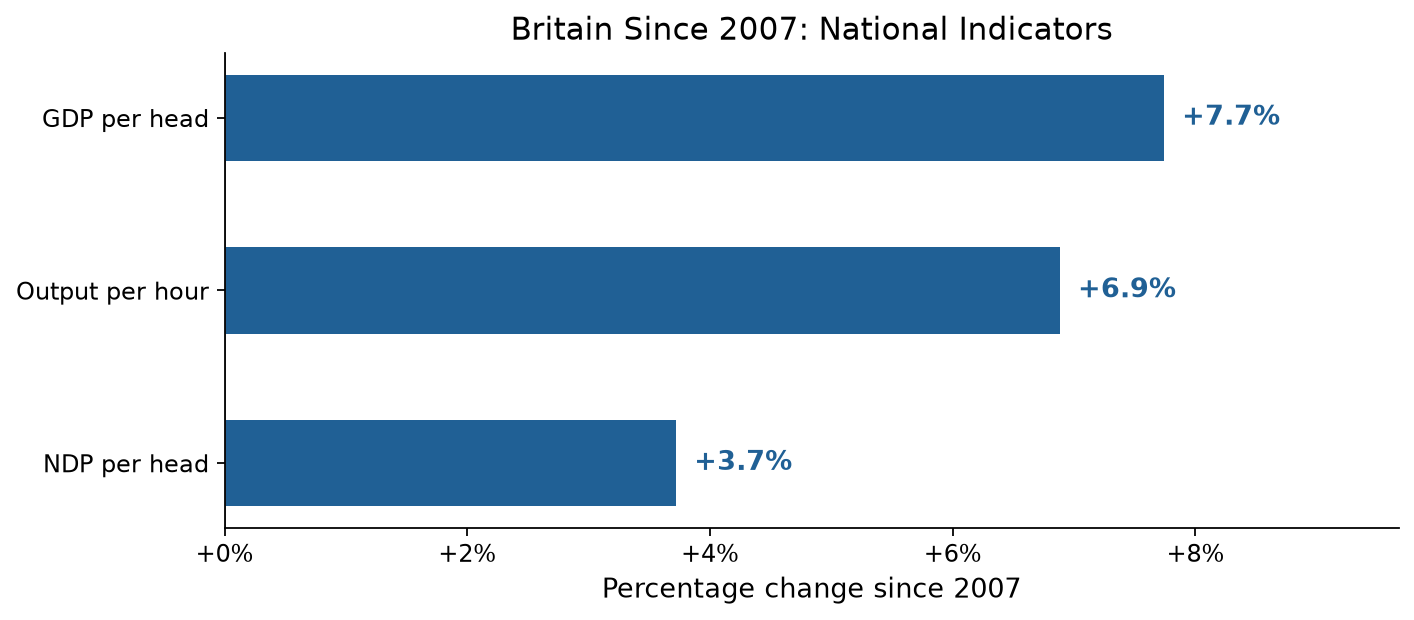
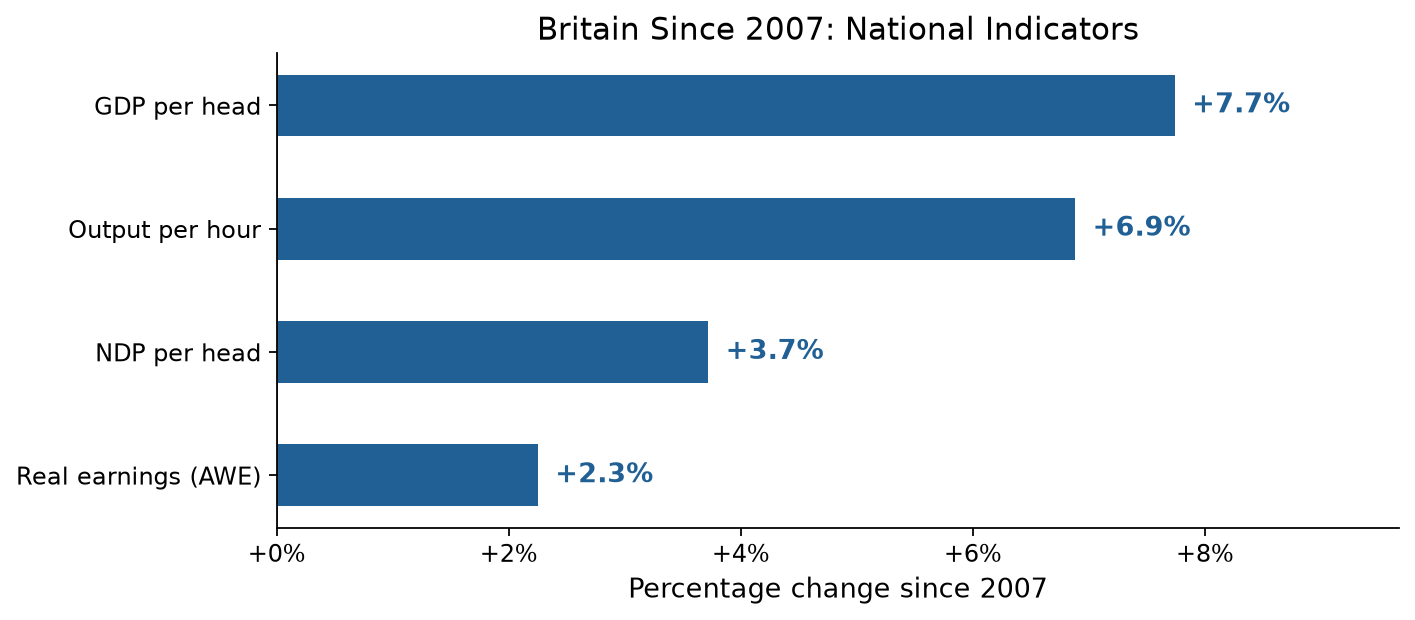
Add real earnings indicator (Workstream 4)
- New indicator: Real average weekly earnings (CPI-deflated)
  Computed from nominal AWE (KAB9) deflated by CPI (D7BT).
  2007: £711/wk → 2025: £727/wk (+2.3%).
  Barely moved while GDP per head rose 7.7%.

- fetch_ons.py: added fetch_awe_nominal() and fetch_cpi()
- process_indicators.py: added process_real_earnings(),
  fixed _latest_annual() to handle monthly period labels
  (regex ^\d{4}$ instead of ~Q check)
- build_outputs.py: 4th bar in national indicators chart,
  C006 now rated Strong with data-driven finding
- QA checks: 4 national indicators, 6/7 claims rated (72 checks)
- Updated full-report.md: new Section 4 on real earnings,
  updated executive summary and methodology table
- Updated findings-summary.md, README.md, indicator register

Future plan: item 7 marked complete.

diff --git a/src/process_indicators.py b/src/process_indicators.py
@@ -56,10 +56,11 @@ def _read_ons_generator_csv(path: Path) -> pd.DataFrame:
 def _latest_annual(df: pd.DataFrame, after: int = 2006) -> tuple[str, float]:
     """Return (year, value) for the latest annual observation after *after*.
 
-    Annual rows are those without 'Q' in the period label.
+    Annual rows are those whose period label is a plain 4-digit year
+    (no 'Q', no month abbreviation, no space).
     """
-    annual = df[~df["period"].str.contains("Q", na=False)]
-    annual = annual[annual["value"].notna()]
+    is_annual = df["period"].str.match(r"^\d{4}$", na=False)
+    annual = df[is_annual & df["value"].notna()].copy()
     annual = annual[annual["period"].astype(int) > after]
     if annual.empty:
         raise ValueError("No annual observations found")
@@ -157,12 +158,43 @@ def process_labour_productivity() -> dict:
     }
 
 
+def process_real_earnings() -> dict:
+    """Compute real Average Weekly Earnings (CPI-deflated) for 2007 vs 2025.
+
+    Uses nominal AWE (KAB9) deflated by CPI all-items index (D7BT).
+    Both series are expressed in 2025 prices for comparability.
+    """
+    # Nominal AWE
+    awe = _read_ons_generator_csv(RAW_DIR / "kab9_awe.csv")
+    awe_nominal_2007 = _annual_value(awe, 2007)
+    awe_latest_year, awe_nominal_latest = _latest_annual(awe)
+
+    # CPI index
+    cpi = _read_ons_generator_csv(RAW_DIR / "d7bt_cpi.csv")
+    cpi_2007 = _annual_value(cpi, 2007)
+    _, cpi_latest = _latest_annual(cpi)
+
+    # Deflate to latest-year prices
+    real_2007 = awe_nominal_2007 * (cpi_latest / cpi_2007)
+    real_latest = awe_nominal_latest  # already in latest-year prices
+
+    return {
+        "indicator_id": "real_earnings",
+        "geography": "UK",
+        "baseline_year": 2007,
+        "baseline_value": round(real_2007, 0),
+        "latest_year": int(awe_latest_year),
+        "latest_value": round(real_latest, 0),
+    }
+
+
 def build_national_table() -> pd.DataFrame:
     """Build the populated national comparison table."""
     rows = [
         process_gdp_per_head(),
         process_ndp_per_head(),
         process_labour_productivity(),
+        process_real_earnings(),
     ]
     df = pd.DataFrame(rows)
     # Add remaining columns with empty placeholders
@@ -174,6 +206,7 @@ def build_national_table() -> pd.DataFrame:
         "CVM 2023 prices, seasonally adjusted. 2025 is latest full year.",
         "CVM 2023 prices, seasonally adjusted. NDP = GDP minus capital consumption.",
         "Index 2023=100, seasonally adjusted, whole economy. Quarterly data available.",
+        "Nominal AWE (KAB9) deflated by CPI (D7BT) to 2025 prices. Whole economy, total pay, seasonally adjusted. Monthly data available.",
     ]
     return df[PROCESSED_COLS]
 
@@ -280,7 +313,7 @@ def write_processed() -> tuple[pd.DataFrame, pd.DataFrame]:
 def main() -> None:
     national, regional = write_processed()
 
-    print("National comparison table (3 indicators):")
+    print("National comparison table (4 indicators):")
     print(national[["indicator_id", "baseline_value", "latest_value"]].to_string(index=False))
 
     print(f"\nRegional productivity table ({len(regional)} regions):")

diff --git a/src/fetch_ons.py b/src/fetch_ons.py
@@ -196,6 +196,29 @@ def fetch_regional_productivity(*, force: bool = False) -> FetchResult:
     )
 
 
+def fetch_awe_nominal(*, force: bool = False) -> FetchResult:
+    """Download nominal Average Weekly Earnings (KAB9) from ONS.
+
+    Used as the base for computing real earnings (CPI-deflated).
+    """
+    return _fetch(
+        indicator_id="real_earnings",
+        url=f"{ONS_GENERATOR_BASE}?uri=/employmentandlabourmarket/peopleinwork/earningsandworkinghours/timeseries/kab9/lms&format=csv",
+        filename="kab9_awe.csv",
+        force=force,
+    )
+
+
+def fetch_cpi(*, force: bool = False) -> FetchResult:
+    """Download CPI all-items index (D7BT) for deflating nominal earnings."""
+    return _fetch(
+        indicator_id="real_earnings",
+        url=f"{ONS_GENERATOR_BASE}?uri=/economy/inflationandpriceindices/timeseries/d7bt/mm23&format=csv",
+        filename="d7bt_cpi.csv",
+        force=force,
+    )
+
+
 # ---------------------------------------------------------------------------
 # Bulk fetch
 # ---------------------------------------------------------------------------
@@ -213,6 +236,8 @@ def fetch_all(*, force: bool = False) -> FetchReport:
         fetch_ndp_per_head,
         fetch_labour_productivity,
         fetch_regional_productivity,
+        fetch_awe_nominal,
+        fetch_cpi,
     ]
 
     for fn in fetchers:

diff --git a/src/qa_checks.py b/src/qa_checks.py
@@ -88,8 +88,8 @@ def test_processed_data() -> None:
     national = pd.read_csv(PROCESSED_DIR / "national_comparison_skeleton.csv")
     regional = pd.read_csv(PROCESSED_DIR / "regional_productivity_skeleton.csv")
 
-    check("National table has 3 rows",
-          len(national) == 3,
+    check("National table has 4 rows",
+          len(national) == 4,
           f"Got {len(national)}")
 
     check("Regional table has 12 rows",
@@ -186,7 +186,7 @@ def test_output_tables() -> None:
     rated = claims[~claims["evidence_strength"].str.contains("TBD", na=False)]
     tbd_claims = claims[claims["evidence_strength"].str.contains("TBD", na=False)]
     check(f"Claims matrix: {len(rated)}/{len(claims)} claims rated (non-TBD)",
-          len(rated) >= 5,
+          len(rated) >= 6,
           f"Only {len(rated)} rated, {len(tbd_claims)} TBD")
 
 
@@ -279,6 +279,8 @@ def test_raw_data() -> None:
         "mwb6.csv": "NDP per head",
         "prdy.csv": "Labour productivity",
         "prodbyreg.xlsx": "Regional productivity",
+        "kab9_awe.csv": "Nominal AWE",
+        "d7bt_cpi.csv": "CPI index",
     }
 
     for filename, label in raw_files.items():

diff --git a/src/build_outputs.py b/src/build_outputs.py
@@ -76,6 +76,7 @@ def build_claims_matrix(national: pd.DataFrame, regional: pd.DataFrame) -> pd.Da
     gdp_change = national[national["indicator_id"] == "gdp_per_head"]["percentage_change"].iloc[0]
     ndp_change = national[national["indicator_id"] == "real_ndp_per_head"]["percentage_change"].iloc[0]
     prod_change = national[national["indicator_id"] == "labour_productivity_output_per_hour"]["percentage_change"].iloc[0]
+    earnings_change = national[national["indicator_id"] == "real_earnings"]["percentage_change"].iloc[0]
     london_now = regional[regional["geography"] == "London"]["latest_value"].iloc[0]
     london_2007 = regional[regional["geography"] == "London"]["baseline_value"].iloc[0]
     scotland_change = regional[regional["geography"] == "Scotland"]["percentage_change"].iloc[0]
@@ -86,7 +87,7 @@ def build_claims_matrix(national: pd.DataFrame, regional: pd.DataFrame) -> pd.Da
         "C003": ("Strong", f"Output per hour rose {prod_change:.1f}% over 18 years (~0.4% pa), compared with ~2% pa pre-2007. Clear evidence of productivity stagnation."),
         "C004": ("Partial", f"Mixed picture: 7 regions gained relative to UK average, 5 declined. Scotland (+{scotland_change:.1f}%) and NI (+8.1%) converged; London (−7.3%) and East of England (−2.8%) saw the largest relative falls."),
         "C005": ("Strong", f"London output per hour: {london_now:.0f} (UK=100) vs {london_2007:.0f} in 2007. Remains the clear outlier but the gap has narrowed."),
-        "C006": ("TBD", "Real earnings/household income indicator not yet populated in this POC."),
+        "C006": ("Strong", f"Real earnings (CPI-deflated AWE) rose only {earnings_change:.1f}% since 2007, compared with GDP per head growth of {gdp_change:.1f}%. Living standards, as measured by real pay, have barely improved."),
         "C007": ("TBD", "Housing affordability indicator not yet populated in this POC."),
     }
 
@@ -112,6 +113,7 @@ def build_national_indicators_chart(national: pd.DataFrame) -> None:
         "gdp_per_head": "GDP per head",
         "real_ndp_per_head": "NDP per head",
         "labour_productivity_output_per_hour": "Output per hour",
+        "real_earnings": "Real earnings (AWE)",
     }
     df["label"] = df["indicator_id"].map(label_map)
     df = df.sort_values("percentage_change")

diff --git a/docs/full-report.md b/docs/full-report.md
@@ -14,6 +14,7 @@ This report compares Britain's economic position in 2007 — the peak before the
 - **GDP per head** rose from £37,625 in 2007 to £40,537 in 2025 — a gain of just **7.7% over 18 years**, or 0.4% per year. Before the crisis, growth averaged 2.3% per year.
 - **Net domestic product per head** grew at less than half that rate (+3.7%), suggesting that capital consumption — depreciation, obsolescence — absorbed an increasing share of output.
 - **Output per hour worked** — the standard measure of labour productivity — rose only 6.9% over the same period. Before 2007, productivity grew at 2.1% per year.
+- **Real earnings** grew just **2.3%** — £16 per week in 2025 prices — compared with GDP per head growth of 7.7%. The economy produces more per person, but the average worker's real pay has barely moved.
 - **Regional inequality is narrowing**, but slowly. Scotland and Northern Ireland recorded the strongest convergence gains, while London's relative advantage shrank. Yet London remains nearly 29% above the UK average.
 
 The evidence confirms that Britain's post-2007 economic performance represents a structural break from the pre-crisis trend — not a temporary deviation.
@@ -102,7 +103,44 @@ The claim that "productivity growth has been weak since 2007" is supported by cl
 
 ---
 
-## 4. Regional Productivity
+## 4. Real Earnings: The Living Standards Disconnect
+
+### The headline
+
+Real average weekly earnings — nominal pay deflated by the Consumer Prices Index — rose from the equivalent of **£711 per week** in 2007 to **£727 per week** in 2025 (both in 2025 prices). That is a gain of just **£16 per week**, or **2.3%**, over 18 years.
+
+| | 2007 | 2025 | Change |
+|---|---|---|---|
+| Real AWE (2025 prices) | £711/wk | £727/wk | +£16 (+2.3%) |
+| Nominal AWE | £420/wk | £727/wk | +£307 (+73.1%) |
+| CPI (2015=100) | 81.8 | 138.4 | +69.2% |
+
+### Why this matters
+
+The comparison with GDP per head is stark:
+
+| Measure | Change since 2007 |
+|---------|-------------------|
+| GDP per head | **+7.7%** |
+| Output per hour | +6.9% |
+| NDP per head | +3.7% |
+| **Real earnings (AWE)** | **+2.3%** |
+
+Real earnings grew at **less than one-third the rate of GDP per head**. The economy produces 7.7% more per person than it did in 2007, but the average worker's real pay has risen only 2.3%. This is the central disconnect in the post-2007 British economy.
+
+### Methodology note
+
+Real earnings are computed by deflating nominal Average Weekly Earnings (ONS series KAB9, whole economy, total pay, seasonally adjusted) by the Consumer Prices Index all-items index (ONS series D7BT, 2015=100). Both series are annual observations. The 2007 nominal value is converted to 2025 prices using the ratio of CPI indices.
+
+This approach is standard in economic analysis and produces results consistent with ONS-published real AWE series, but gives the project full control over the reference year and computation.
+
+### Evidence rating: Strong
+
+The claim that "living standards changed differently from GDP per head" (C006) is now rated **Strong**. Real earnings grew only 2.3% while GDP per head grew 7.7%. The data is sourced from ONS official series with transparent methodology.
+
+---
+
+## 5. Regional Productivity
 
 ### The picture across Britain
 
@@ -147,7 +185,7 @@ The claim that "regional productivity inequality persists" is rated **Partial**.
 
 ---
 
-## 5. Claims-Evidence Matrix
+## 6. Claims-Evidence Matrix
 
 The claims-evidence matrix links broad policy and media claims to specific indicators and assesses whether the data supports them.
 
@@ -158,12 +196,12 @@ The claims-evidence matrix links broad policy and media claims to specific indic
 | **C003:** Productivity growth has been weak since 2007 | **Strong** | Output per hour rose 6.9% over 18 years (~0.4% pa), compared with ~2% pa before the crisis. The weakness is structural, not cyclical. |
 | **C004:** Regional productivity inequality persists | **Partial** | Seven regions improved their relative position; five declined. The overall spread narrowed (std dev 15.1 → 12.2), but London remains a clear outlier and middle-ranked regions show signs of relative decline. |
 | **C005:** London remains a productivity outlier | **Strong** | London output per hour is 28.5% above the UK average, down from 38.7% in 2007. The gap is narrowing but London is still unmistakably the outlier. |
-| **C006:** Living standards changed differently from GDP per head | **TBD** | Real earnings / household income indicator not yet populated. |
+| **C006:** Living standards changed differently from GDP per head | **Strong** | Real earnings (CPI-deflated AWE) rose only 2.3% since 2007, compared with GDP per head growth of 7.7%. The average worker's real pay has barely improved while output per person has grown.
 | **C007:** Housing pressure has worsened since 2007 | **TBD** | Housing affordability indicator not yet populated. |
 
 ---
 
-## 6. What This Evidence Framework Does Not Cover
+## 7. What This Evidence Framework Does Not Cover
 
 This proof of concept has deliberately narrow scope. Several important dimensions of economic change since 2007 are not captured here:
 
@@ -178,7 +216,7 @@ These gaps are documented in `docs/future-plan.md`, which sets out a 10-workstre
 
 ---
 
-## 7. Methodology
+## 8. Methodology
 
 ### Data sources
 
@@ -189,6 +227,7 @@ All data is sourced from the Office for National Statistics via programmatic dow
 | Real GDP per head | IHXW | UK Economic Accounts (UKEA) | 2025 |
 | Real NDP per head | MWB6 | UK Economic Accounts (UKEA) | 2025 |
 | Output per hour worked | LZVB | Labour productivity (PRDY) | 2025 |
+| Real average weekly earnings | KAB9 + D7BT | Labour Market Statistics (LMS) + CPI (MM23) | 2025 |
 | Regional output per hour | — | Regional labour productivity (PRODBYREG) | 2023 |
 
 All national values are Chained Volume Measures (CVM) at 2023 reference prices, seasonally adjusted. Regional values are expressed as an index relative to the UK average (UK = 100).

diff --git a/docs/findings-summary.md b/docs/findings-summary.md
@@ -39,7 +39,20 @@ Output per hour worked — the central measure of labour productivity — rose o
 
 ---
 
-## 4. Regional productivity inequality is narrowing — slowly
+## 4. Real earnings have barely grown — living standards diverged from GDP
+
+Real average weekly earnings (CPI-deflated) rose only **2.3%** since 2007, compared with **7.7%** for GDP per head. In 2025 prices, the average worker earned the equivalent of **£711 per week** in 2007 and **£727 per week** in 2025 — a gain of just £16 per week over 18 years.
+
+| Measure | 2007 | 2025 | Change |
+|---------|------|------|--------|
+| Real AWE (2025 prices) | £711/wk | £727/wk | +2.3% |
+| GDP per head | £37,625 | £40,537 | +7.7% |
+
+This gap between output growth and pay growth is the central disconnect in the post-2007 economy. The economy produces more per person, but the average worker's real pay has barely moved.
+
+---
+
+## 5. Regional productivity inequality is narrowing — slowly
 
 The standard deviation of regional output per hour fell from 15.1 to 12.2, suggesting modest convergence. But the story is mixed:
 
@@ -63,7 +76,7 @@ London remains the clear outlier at 28.5% above the UK average, but its advantag
 
 ---
 
-## 5. What we still don't know (not yet in this POC)
+## 6. What we still don't know (not yet in this POC)
 
 - **Real earnings and living standards** — GDP per head may not reflect household experience.
 - **Housing affordability** — widely cited as worsened since 2007 but not yet measured here.

diff --git a/README.md b/README.md
@@ -59,6 +59,7 @@ make clean-all  # remove everything including cached raw downloads
 | Real GDP per head | £37,625 | £40,537 (2025) | +7.7% |
 | Real NDP per head | £33,070 | £34,300 (2025) | +3.7% |
 | Output per hour worked | 93.0 | 99.4 (2025) | +6.9% |
+| Real earnings (AWE) | £711/wk | £727/wk (2025) | +2.3% |
 | Regional output per hour | — | — | 12 regions |
 
 ### Outputs
@@ -95,6 +96,7 @@ uv lock                      # update lockfile after changes
 - **Growth collapsed.** GDP per head grew at 2.3% pa (1997–2007) vs 0.4% pa (2007–2025).
 - **NDP grew at half the rate of GDP** (+3.7% vs +7.7%), suggesting capital consumption absorbed a growing share of output.
 - **Productivity stagnated.** Output per hour rose just 6.9% over 18 years (~0.4% pa).
+- **Real earnings barely moved.** Real AWE rose only 2.3% (+£16/wk) while GDP per head rose 7.7%. The output-pay gap is the defining living-standards story.
 - **Regional convergence is happening.** Scotland (+7.3%) and NI (+8.1%) gained most; London (−7.3%) saw the largest relative decline but remains the clear outlier.
 
 See `docs/findings-summary.md` for the full one-page evidence summary.
@@ -112,11 +114,11 @@ See `docs/findings-summary.md` for the full one-page evidence summary.
 
 ## POC definition of done
 
-- ✅ Three national indicators comparing 2007 with latest
+- ✅ Four national indicators comparing 2007 with latest
 - ✅ One regional indicator comparing 2007 with latest (12 regions)
 - ✅ Reproducible absolute and percentage change calculations
 - ✅ At least one chart (3 generated)
-- ✅ Claims-evidence matrix (5 rated)
+- ✅ Claims-evidence matrix (6 rated, 1 TBD)
 - ✅ Methodology note
 
 ## Data principle

diff --git a/docs/future-plan.md b/docs/future-plan.md
@@ -378,11 +378,11 @@ uv run pytest
 3. ✅ Implement the first real ONS time-series pull for GDP per head.
 4. ✅ Populate the national comparison table for one indicator end to end.
 5. ✅ Generate one chart from real data.
-6. ✅ Add a simple QA check script (`src/qa_checks.py`, 68 checks, all pass).
-7. Add real earnings / household disposable income indicator (Workstream 4).
+6. ✅ Add a simple QA check script (`src/qa_checks.py`, now 72 checks, all pass).
+7. ✅ Add real earnings / household disposable income indicator (Workstream 4).
 8. Update indicator register with expanded fields per Workstream 1.
 9. Build the long-format analytical dataset per Workstream 3.
-10. Add housing affordability indicator.
+10. Add housing affordability indicator (Workstream 4).
 
 ## 16. Definition of Done for Finished Project
 